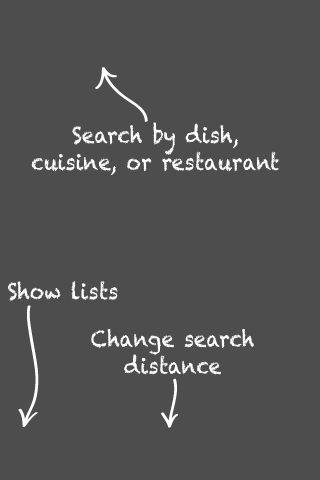
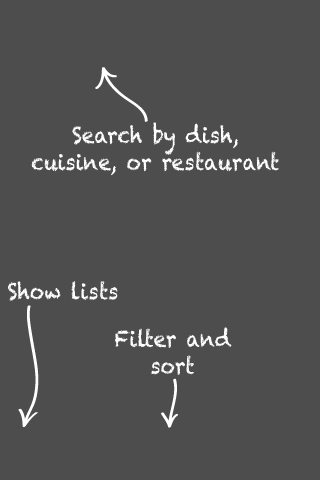
overlay views

Changed region(s): [[0.2812, 0.6875, 0.8125, 0.7812]]

diff --git a/MealTime/PlaceDataCenter.m b/MealTime/PlaceDataCenter.m
@@ -73,12 +73,15 @@ static NSLock *_placesToRemoveLock = nil;
   NSString *openNowParam = openNow ? [NSString stringWithFormat:@"open_now=%d", [NSDate minutesSinceBeginningOfWeek]] : nil;
   NSString *sortbyParam = sortby ? [NSString stringWithFormat:@"sortby=%@", sortby] : nil;
   NSString *radiusParam = radius ? [NSString stringWithFormat:@"radius=%@", radius] : nil;
-  if (query) {
-    query = [NSString stringWithFormat:@"Restaurants %@", query];
-  } else {
-    query = @"Restaurants";
-  }
-  NSString *queryParam = [NSString stringWithFormat:@"find_desc=%@", [query stringByURLEncoding]];
+//  if (query) {
+//    query = [NSString stringWithFormat:@"find_desc=%@", query];
+//  } else {
+//    query = @"cflt=restaurants";
+//  }
+  
+  query = @"cflt=restaurants";
+  
+  NSString *queryParam = [NSString stringWithFormat:@"%@", [query stringByURLEncoding]];
   
   NSString *priceParam = (price == 0) ? nil : [NSString stringWithFormat:@"attrs=RestaurantsPriceRange2.%d", price];
   

diff --git a/MealTime/FilterViewController.m b/MealTime/FilterViewController.m
@@ -124,14 +124,14 @@
   //
   // Layout subviews
   //
-  CGFloat top = 110;
-  CGFloat left = MARGIN_X;
+  CGFloat top = isDeviceIPad() ? 330 : 110;
+  CGFloat left = isDeviceIPad() ? 234 : MARGIN_X;
   
   // Sort By Section
   UILabel *sbl = [UILabel labelWithText:@"Sort By" style:@"filterSectionLabel"];
   sbl.top = top;
-  sbl.left = left * 2;
-  sbl.width = self.view.width - left * 4;
+  sbl.left = left + 10;
+  sbl.width = 300;
   sbl.height = 30.0;
   [self.view addSubview:sbl];
   
@@ -145,8 +145,8 @@
   // Price Section
   UILabel *pl = [UILabel labelWithText:@"Price" style:@"filterSectionLabel"];
   pl.top = top;
-  pl.left = left * 2;
-  pl.width = self.view.width - left * 4;
+  pl.left = left + 10;
+  pl.width = 300;
   pl.height = 30.0;
   [self.view addSubview:pl];
   
